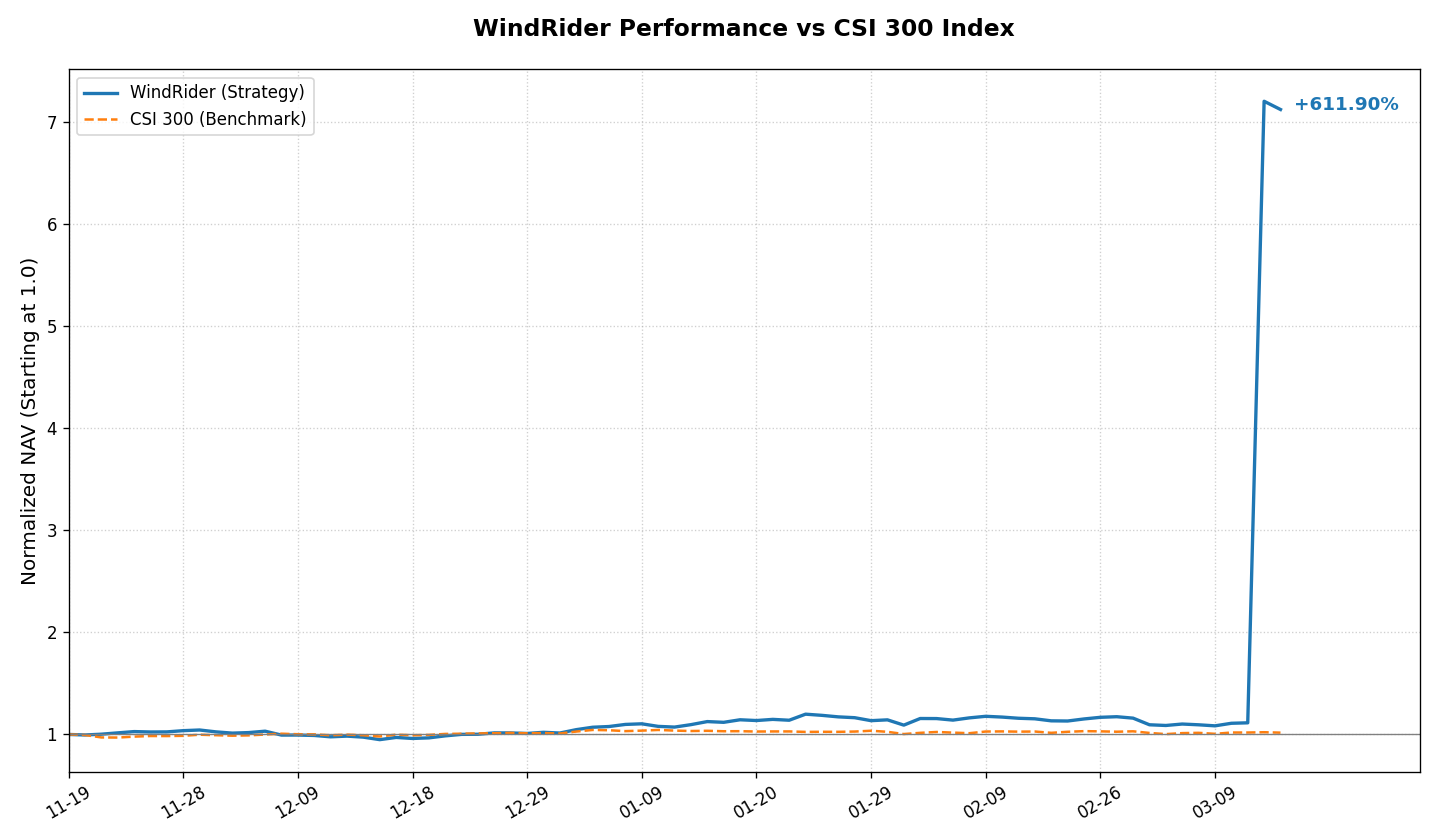
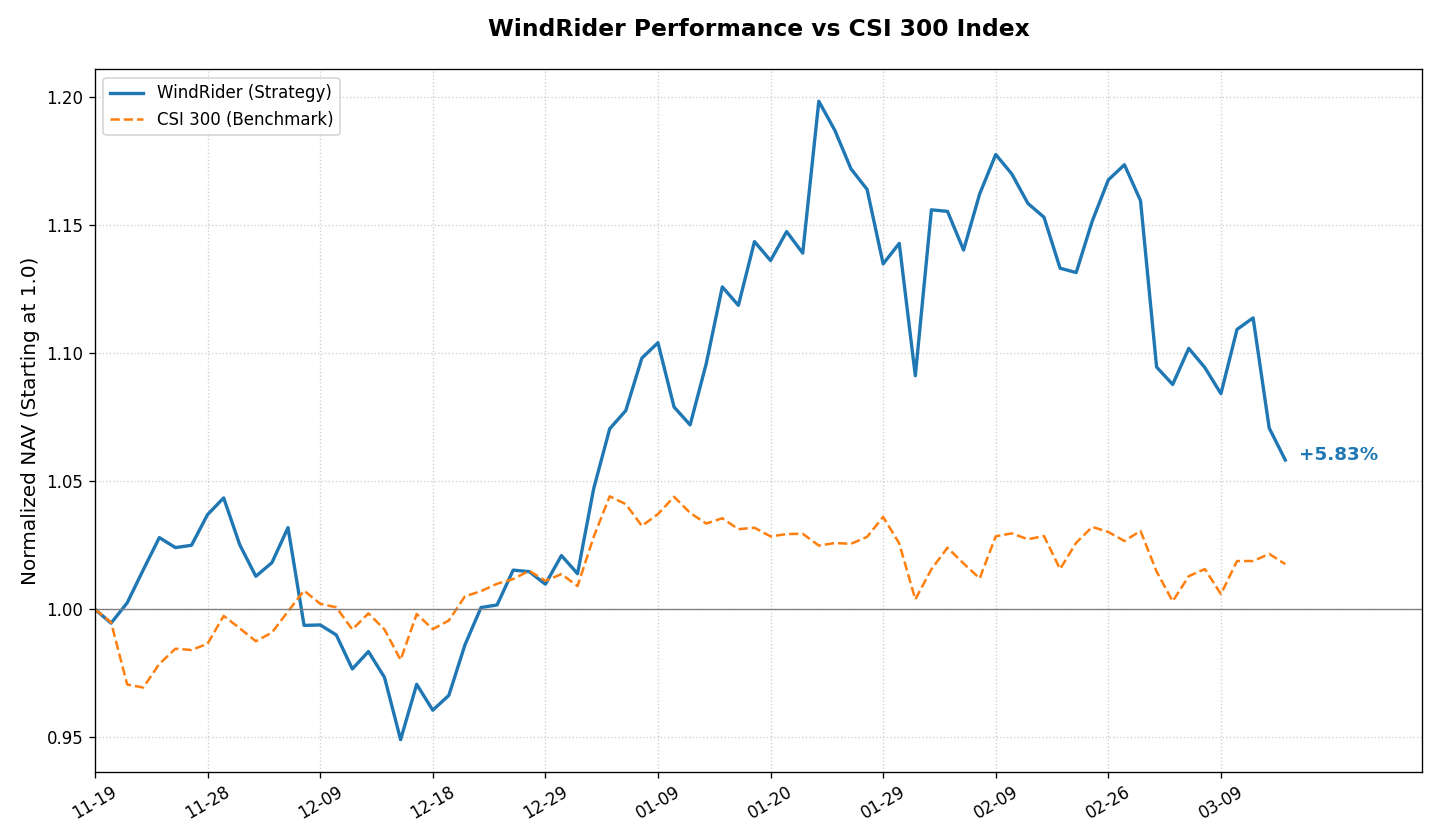
Updated Hugo site content

diff --git a/public/investment/position/index.html b/public/investment/position/index.html
@@ -66,8 +66,8 @@
   <meta property="og:locale" content="zh-cn">
   <meta property="og:type" content="article">
     <meta property="article:section" content="investment">
-    <meta property="article:published_time" content="2026-03-13T21:25:35+08:00">
-    <meta property="article:modified_time" content="2026-03-13T21:25:35+08:00">
+    <meta property="article:published_time" content="2026-03-13T21:40:26+08:00">
+    <meta property="article:modified_time" content="2026-03-13T21:40:26+08:00">
 <meta name="twitter:card" content="summary">
 <meta name="twitter:title" content="如山-股票组合持仓 /// Position">
 <meta name="twitter:description" content="如山股票组合持仓">
@@ -106,8 +106,8 @@
   "articleBody": " 风舵股票组合 /// 每日持仓 WindRider Equity Portfolio 净值简报 (截至: 2026-03-13)\n指数代码： WDR.EQ 成立日期： 2025-11-19 最新净值： 7.1190 今日涨跌： -1.12% ===========================\n核心表现 累计收益： +611.90% 年化收益： +53508.82% 最大回撤： -9.53% 基准点位： 4669.14 (CSI300) 策略状态： 已运行 115 天 持仓明细 股票名称 成本价 现价 盈亏 占比 先导智能 300450 52.17 51.90 -0.51% 0% 收益率对比曲线 声明：本页面数据为实盘记录，持仓数据每日收盘后更新。\n数据仅供技术交流，不构成投资建议。\n",
   "wordCount" : "47",
   "inLanguage": "zh-cn",
-  "datePublished": "2026-03-13T21:25:35+08:00",
-  "dateModified": "2026-03-13T21:25:35+08:00",
+  "datePublished": "2026-03-13T21:40:26+08:00",
+  "dateModified": "2026-03-13T21:40:26+08:00",
   "mainEntityOfPage": {
     "@type": "WebPage",
     "@id": "https://hankou.com/investment/position/"
@@ -196,7 +196,7 @@
     <div class="post-description">
       如山股票组合持仓
     </div>
-    <div class="post-meta"><span title='2026-03-13 21:25:35 +0800 CST'>March 13, 2026</span>
+    <div class="post-meta"><span title='2026-03-13 21:40:26 +0800 CST'>March 13, 2026</span>
 
 </div>
   </header> 

diff --git a/public/investment/index.html b/public/investment/index.html
@@ -157,7 +157,7 @@
   <div class="entry-content">
     <p>主动管理型股票组合。对标沪深300指数，采用基本面选股策略。</p>
   </div>
-  <footer class="entry-footer"><span title='2026-03-13 21:25:35 +0800 CST'>March 13, 2026</span></footer>
+  <footer class="entry-footer"><span title='2026-03-13 21:40:26 +0800 CST'>March 13, 2026</span></footer>
   <a class="entry-link" aria-label="post link to 如山-股票组合持仓 /// Position" href="https://hankou.com/investment/position/"></a>
 </article>
 

diff --git a/content/investment/position.md b/content/investment/position.md
@@ -1,8 +1,8 @@
 +++
 title = "如山-股票组合持仓 /// Position"
 summary = "主动管理型股票组合。对标沪深300指数，采用基本面选股策略。"
-date = 2026-03-13T21:40:26+08:00
-lastmod = 2026-03-13T21:40:26+08:00
+date = 2026-03-13T21:43:14+08:00
+lastmod = 2026-03-13T21:43:14+08:00
 draft = false
 description = "如山股票组合持仓"
 +++
@@ -18,16 +18,16 @@ WindRider Equity Portfolio <br>
 | :--- | :--- |
 | **指数代码：** | WDR.EQ |
 | **成立日期：** | 2025-11-19 |
-| **最新净值：** | 7.1190 |
-| **今日涨跌：** | -1.12% |
+| **最新净值：** | 1.0583 |
+| **今日涨跌：** | -1.17% |
 
 ===========================
 
 | 核心表现 | |
 | :--- | :--- |
-| **累计收益：** | +611.90% |
-| **年化收益：** | +53508.82% |
-| **最大回撤：** | -9.53% |
+| **累计收益：** | +5.83% |
+| **年化收益：** | +19.89% |
+| **最大回撤：** | -11.69% |
 | **基准点位：** | 4669.14 (CSI300) |
 | **策略状态：** | 已运行 115 天 |
 
